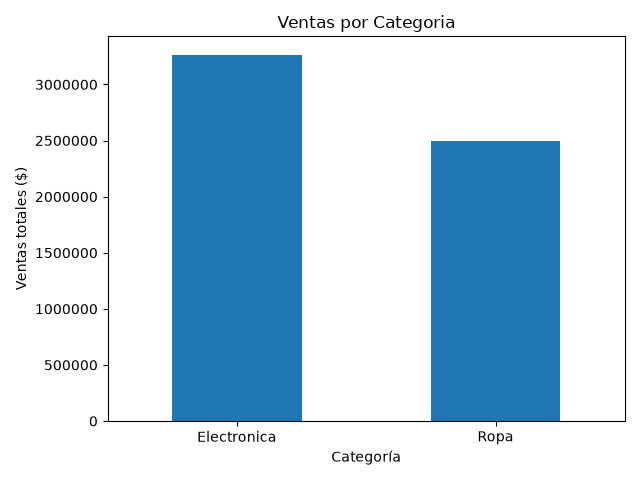
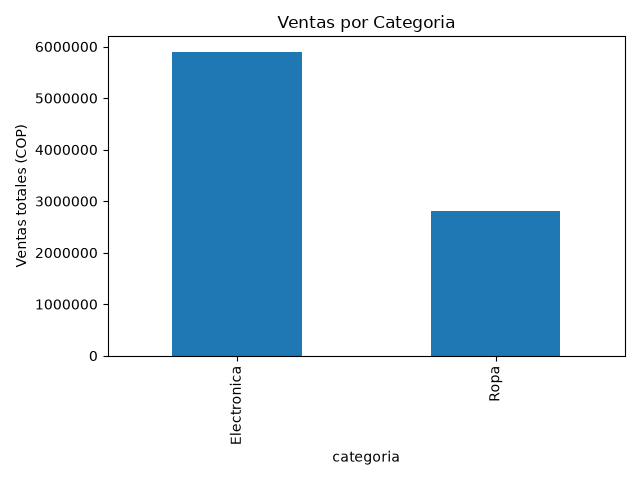
agregar sistema de automatizacion

diff --git a/automatizacion.py b/automatizacion.py
@@ -1,0 +1,97 @@
+# ============================================
+# AUTOMATIZACION - Bot de Ventas
+# Este script vigila la carpeta "datos/" y cuando detecta
+# un archivo nuevo, procesa todo automaticamente:
+# lee, corrige columnas, consolida, limpia, analiza
+# y guarda un registro (log) del proceso.
+# ============================================
+import time
+import os
+import pandas as pd
+import glob
+import matplotlib.pyplot as plt
+
+ruta_datos = "datos/"
+# [IA] Guardamos una "foto" de los archivos que ya existen al iniciar,
+# para poder comparar despues y detectar solo los que se agreguen nuevos
+archivos_vistos = set(os.listdir(ruta_datos))
+
+
+def procesar_todo(archivo_nuevo):
+    """
+    Lee todos los archivos de sucursales en datos/, corrige las
+    columnas del archivo de Bogota, consolida todo, limpia
+    duplicados y espacios, genera los graficos y guarda un log
+    del proceso.
+    """
+    archivos_csv = glob.glob("datos/sucursal_*.csv")
+    archivos_xlsx = glob.glob("datos/sucursal_*.xlsx")
+    lista_informes = []
+
+    for archivo in archivos_csv:
+        lista_informes.append(pd.read_csv(archivo))
+    for archivo in archivos_xlsx:
+        lista_informes.append(pd.read_excel(archivo, engine='openpyxl'))
+
+    # Correccion de columnas del archivo de Bogota (igual que en main.py)
+    for i, df in enumerate(lista_informes):
+        if 'Cant' in df.columns:
+            lista_informes[i] = df.rename(columns={
+                'Fecha_Venta': 'fecha',
+                'Producto': 'producto',
+                'Categoria': 'categoria',
+                'Cant': 'cantidad',
+                'Valor_Unitario': 'precio_unitario',
+                'Vendedor': 'vendedor',
+                'Pago': 'metodo_pago'
+            })
+
+    df_consolidado = pd.concat(lista_informes, ignore_index=True)
+
+    # Limpieza: duplicados, espacios en blanco y nulos
+    df_consolidado = df_consolidado.drop_duplicates()
+    columnas_texto = df_consolidado.select_dtypes(include='str').columns
+    for col in columnas_texto:
+        df_consolidado[col] = df_consolidado[col].str.strip()
+    df_consolidado['metodo_pago'] = df_consolidado['metodo_pago'].fillna('No especificado')
+
+    df_consolidado.to_excel("resultados/consolidado_limpio.xlsx", index=False)
+
+    # Grafico de ventas por categoria
+    ventas_categoria = df_consolidado.groupby('categoria')['precio_unitario'].sum()
+    ventas_categoria.plot(kind='bar', title='Ventas por Categoria')
+    plt.ticklabel_format(style='plain', axis='y')
+    plt.ylabel('Ventas totales (COP)')
+    plt.tight_layout()
+    plt.savefig("resultados/grafico_categoria.png")
+    plt.close()
+
+    # Grafico de participacion por vendedor
+    ventas_vendedor = df_consolidado.groupby('vendedor')['precio_unitario'].sum()
+    ventas_vendedor.plot(kind='pie', autopct='%1.1f%%', title='Participacion de Ventas por Vendedor')
+    plt.ylabel('')
+    plt.tight_layout()
+    plt.savefig("resultados/grafico_vendedor.png")
+    plt.close()
+
+    # Registro (log) del proceso: queda historial de cada vez que se ejecuta
+    with open("resultados/log_automatizacion.txt", "a") as f:
+        f.write(f"Proceso ejecutado: {pd.Timestamp.now()}\n")
+        f.write(f"Archivo detectado: {archivo_nuevo}\n")
+        f.write(f"Total de registros procesados: {len(df_consolidado)}\n")
+        f.write("---\n")
+
+    print("Proceso completado - archivos actualizados en resultados/")
+
+
+print("Monitoreando carpeta 'datos/'... (Ctrl+C para detener)")
+while True:
+    archivos_actuales = set(os.listdir(ruta_datos))
+    archivos_nuevos = archivos_actuales - archivos_vistos
+
+    if archivos_nuevos:
+        print(f"Nuevo archivo detectado: {archivos_nuevos}")
+        procesar_todo(archivos_nuevos)
+        archivos_vistos = archivos_actuales
+
+    time.sleep(5)
